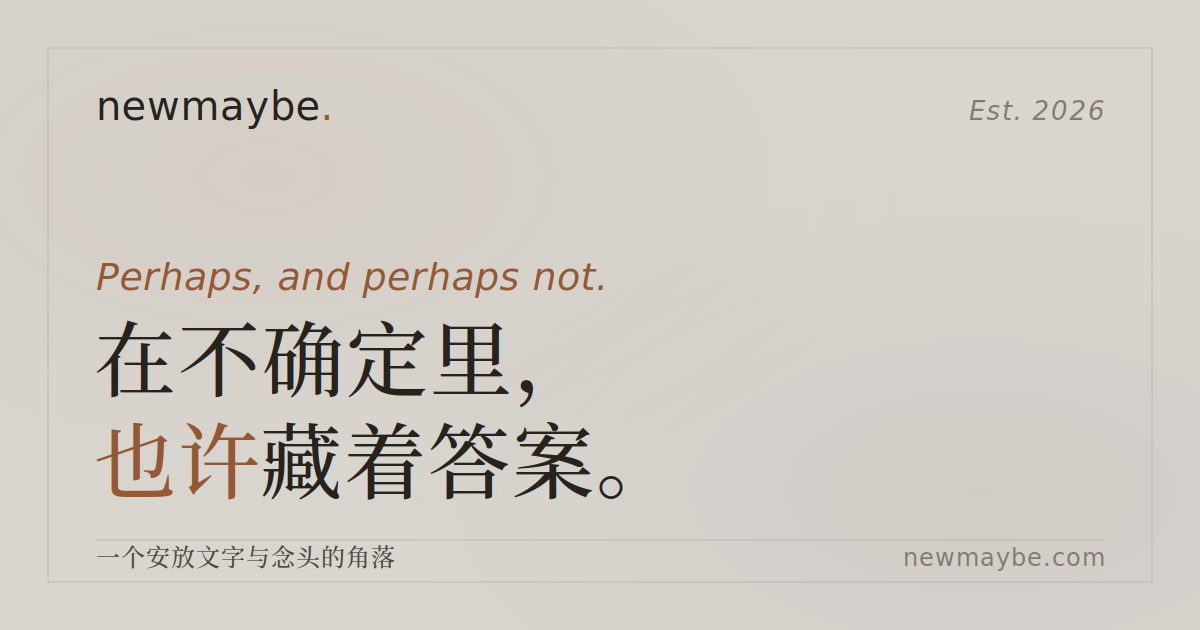
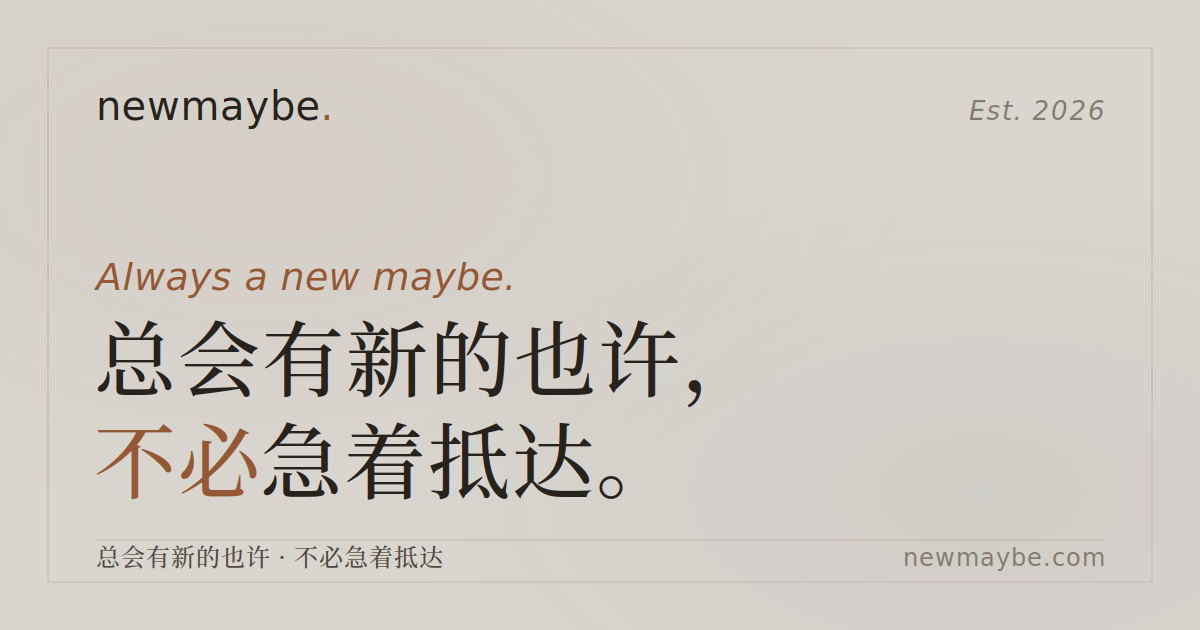
refine content and styles across multiple components for clarity and aesthetics

diff --git a/src/styles/global.css b/src/styles/global.css
@@ -33,6 +33,20 @@
   --max: 1080px;
 }
 
+/* 暗色模式 —— 跟随系统设定，无需开关，不打扰 */
+@media (prefers-color-scheme: dark) {
+  :root {
+    --paper:      #1E1B18;   /* 墨纸底 */
+    --paper-deep: #262320;   /* 略亮的墨纸 */
+    --ink:        #E8E0D5;   /* 暖白墨 */
+    --ink-soft:   #B5A99A;   /* 灰暖墨 */
+    --ink-faint:  #7A7065;   /* 淡暖墨 */
+    --ochre:      #C4814E;   /* 暗底赭石需提亮 */
+    --ochre-deep: #A8643C;
+    --line:       #3A3430;   /* 暗线 */
+  }
+}
+
 * { margin: 0; padding: 0; box-sizing: border-box; }
 
 html { scroll-behavior: smooth; }
@@ -48,6 +62,14 @@ body {
     radial-gradient(circle at 20% 30%, rgba(168,100,60,0.025) 0%, transparent 40%),
     radial-gradient(circle at 80% 70%, rgba(43,39,34,0.02) 0%, transparent 45%);
   overflow-x: hidden;
+}
+
+@media (prefers-color-scheme: dark) {
+  body {
+    background-image:
+      radial-gradient(circle at 20% 30%, rgba(196,129,78,0.04) 0%, transparent 40%),
+      radial-gradient(circle at 80% 70%, rgba(232,224,213,0.02) 0%, transparent 45%);
+  }
 }
 
 /* 颗粒质感叠层 */